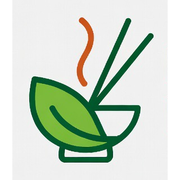
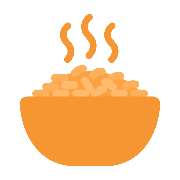
正式名改东方食谱：热饭碗字标，页头标题图标分享卡统一。
首页标题/h1/og/footer、菜页模板标题/页头/页脚、favicon/触控图标/分享卡全套换新。

diff --git a/index.html b/index.html
@@ -3,19 +3,19 @@
 <head>
 <meta charset="UTF-8">
 <meta name="viewport" content="width=device-width, initial-scale=1, viewport-fit=cover">
-<title>天天新鲜 家常食谱 · 东方超市</title>
-<meta name="description" content="天天新鲜 家常食谱 · 东方超市——今晚吃什么不用愁，看看用店里的新鲜食材能做什么、怎么做。">
+<title>东方食谱 · 东方超市</title>
+<meta name="description" content="东方食谱 · 东方超市——今晚吃什么不用愁，看看用店里的新鲜食材能做什么、怎么做。">
 <meta property="og:type" content="website">
-<meta property="og:title" content="天天新鲜 家常食谱 · 东方超市">
+<meta property="og:title" content="东方食谱 · 东方超市">
 <meta property="og:description" content="今晚吃什么不用愁，看看用店里的新鲜食材能做什么、怎么做。">
-<meta property="og:image" content="https://recipe.easternmarket.ca/apple-touch-icon.png">
+<meta property="og:image" content="https://recipe.easternmarket.ca/og-cover.png">
 <meta property="og:url" content="https://recipe.easternmarket.ca">
-<link rel="icon" href="/favicon.ico?v=1" sizes="any">
-<link rel="icon" type="image/png" sizes="32x32" href="/icons/favicon-32.png?v=1">
-<link rel="apple-touch-icon" href="/apple-touch-icon.png?v=1">
+<link rel="icon" href="/favicon.ico?v=2" sizes="any">
+<link rel="icon" type="image/png" sizes="32x32" href="/icons/favicon-32.png?v=2">
+<link rel="apple-touch-icon" href="/apple-touch-icon.png?v=2">
 <link rel="preload" href="data/recipes.json" as="fetch" crossorigin>
 <link rel="preload" href="data/catalog.json" as="fetch" crossorigin>
-<link rel="stylesheet" href="css/app.css?v=21">
+<link rel="stylesheet" href="css/app.css?v=22">
 </head>
 <body class="spa">
 <header class="hdr">
@@ -23,7 +23,7 @@
     <a id="logoHome" class="hdr__logobtn" href="https://easternmarket.ca" aria-label="东方超市 · 进入主网首页">
       <img class="hdr__logo" src="assets/logo-horizontal.png?v=1" alt="东方超市 Eastern Market" width="1080" height="556">
     </a>
-    <h1 class="hdr__name">天天新鲜 家常食谱</h1>
+    <h1 class="hdr__name"><img class="hdr__wordmark" src="assets/dongfang-shipu-wordmark.png?v=1" alt="东方食谱" width="800" height="283"></h1>
     <div class="search">
       <input id="q" class="search__input" type="search" inputmode="search"
              aria-label="搜索食谱或食材"
@@ -112,7 +112,7 @@
   <section id="detail" class="detail" hidden></section>
 </main>
 <footer class="ftr">
-  <strong>Eastern Market 东方超市</strong><br>
+  <strong>东方食谱 · Eastern Market 东方超市</strong><br>
   133-412 Willowgrove Square, Saskatoon<br>
   周一至周六 10am–6:30pm<br>
   <a href="https://maps.google.com/?q=Eastern+Market,+412+Willowgrove+Square,+Saskatoon" target="_blank" rel="noopener">📍 地图导航</a>　·　<a href="https://easternmarket.ca">🛒 网上超市</a>　·　<a href="/r/">📖 全部食谱</a><br>

diff --git a/css/app.css b/css/app.css
@@ -14,6 +14,7 @@ body{margin:0;background:var(--bg);color:var(--ink);
 .hdr__logo{height:36px;width:auto;display:block}
 .hdr__name{flex:0 0 auto;margin:0;font-size:15px;font-weight:700;color:var(--green-d);letter-spacing:.2px;
   line-height:1.2;border-left:1px solid var(--line);padding-left:9px;white-space:nowrap}
+.hdr__wordmark{display:block;height:34px;width:auto}
 .search{flex:1 1 auto;min-width:0}
 .search__input{width:100%;height:40px;border:1px solid var(--line);border-radius:20px;
   padding:0 14px;font-size:16px;outline:none;background:#fbfdfb}

diff --git a/scripts/build_static_pages.py b/scripts/build_static_pages.py
@@ -25,8 +25,8 @@ import recipe_lib as rl
 import static_pages as sp
 
 OUT_DIR = "r"
-CSS_V = "20"
-ASSET_V = "1"
+CSS_V = "21"
+ASSET_V = "2"
 DELIVERY_URL = "https://easternmarket.ca/group-order"
 
 GRP_ICON = {"新鲜蔬菜": "🥬", "新鲜水果": "🍎", "冷冻食品": "🧊", "豆腐蛋品": "🥚",
@@ -84,7 +84,7 @@ def head(title, desc, canonical, image, extra=""):
     <a class="hdr__logobtn" href="https://easternmarket.ca" aria-label="东方超市 · 进入主网首页">
       <img class="hdr__logo" src="/assets/logo-horizontal.png?v=%(av)s" alt="东方超市 Eastern Market" width="1080" height="556">
     </a>
-    <a class="hdr__name" href="/" style="text-decoration:none">天天新鲜 家常食谱</a>
+    <a class="hdr__name" href="/" style="text-decoration:none"><img class="hdr__wordmark" src="/assets/dongfang-shipu-wordmark.png?v=1" alt="东方食谱" width="800" height="283"></a>
   </div>
 </header>
 <main>
@@ -95,7 +95,7 @@ def head(title, desc, canonical, image, extra=""):
 
 FOOT = """</main>
 <footer class="ftr">
-  <strong>Eastern Market 东方超市</strong><br>
+  <strong>东方食谱 · Eastern Market 东方超市</strong><br>
   133-412 Willowgrove Square, Saskatoon<br>
   周一至周六 10am–6:30pm<br>
   <a href="https://maps.google.com/?q=Eastern+Market,+412+Willowgrove+Square,+Saskatoon" target="_blank" rel="noopener">📍 地图导航</a>　·　<a href="https://easternmarket.ca">🛒 网上超市</a>　·　<a href="/r/">📖 全部食谱</a><br>
@@ -136,7 +136,7 @@ def recipe_page(r, pidx, all_recipes):
     rid = r["id"]
     name = r.get("name_cn") or ""
     is_ready = r.get("kind") == "ready"
-    title = "%s%s · 东方超市家常食谱" % (name, "" if is_ready else "的做法")
+    title = "%s%s · 东方食谱" % (name, "" if is_ready else "的做法")
     desc = sp.meta_description(r)
 
     parts = [head(title, desc, sp.recipe_url(rid), r.get("image"),
@@ -207,8 +207,8 @@ def recipe_page(r, pidx, all_recipes):
 def index_page(all_recipes):
     """全部食谱目录：爬虫从这里能一跳走到每一道菜。"""
     n = len(all_recipes)
-    title = "全部 %d 道家常食谱 · 东方超市" % n
-    desc = ("东方超市家常食谱目录，共 %d 道：应季、今晚吃什么、粤菜、家常蔬菜、"
+    title = "全部 %d 道菜 · 东方食谱" % n
+    desc = ("东方食谱目录，共 %d 道：应季、今晚吃什么、粤菜、家常蔬菜、"
             "海鲜河鲜、早餐包点、饺子馄饨等。食材在店里都买得到。" % n)[:155]
     parts = [head(title, desc, "%s/r/" % sp.SITE, None)]
     parts.append('<nav class="pg-crumb"><a href="/">首页</a> › 全部食谱</nav>')
